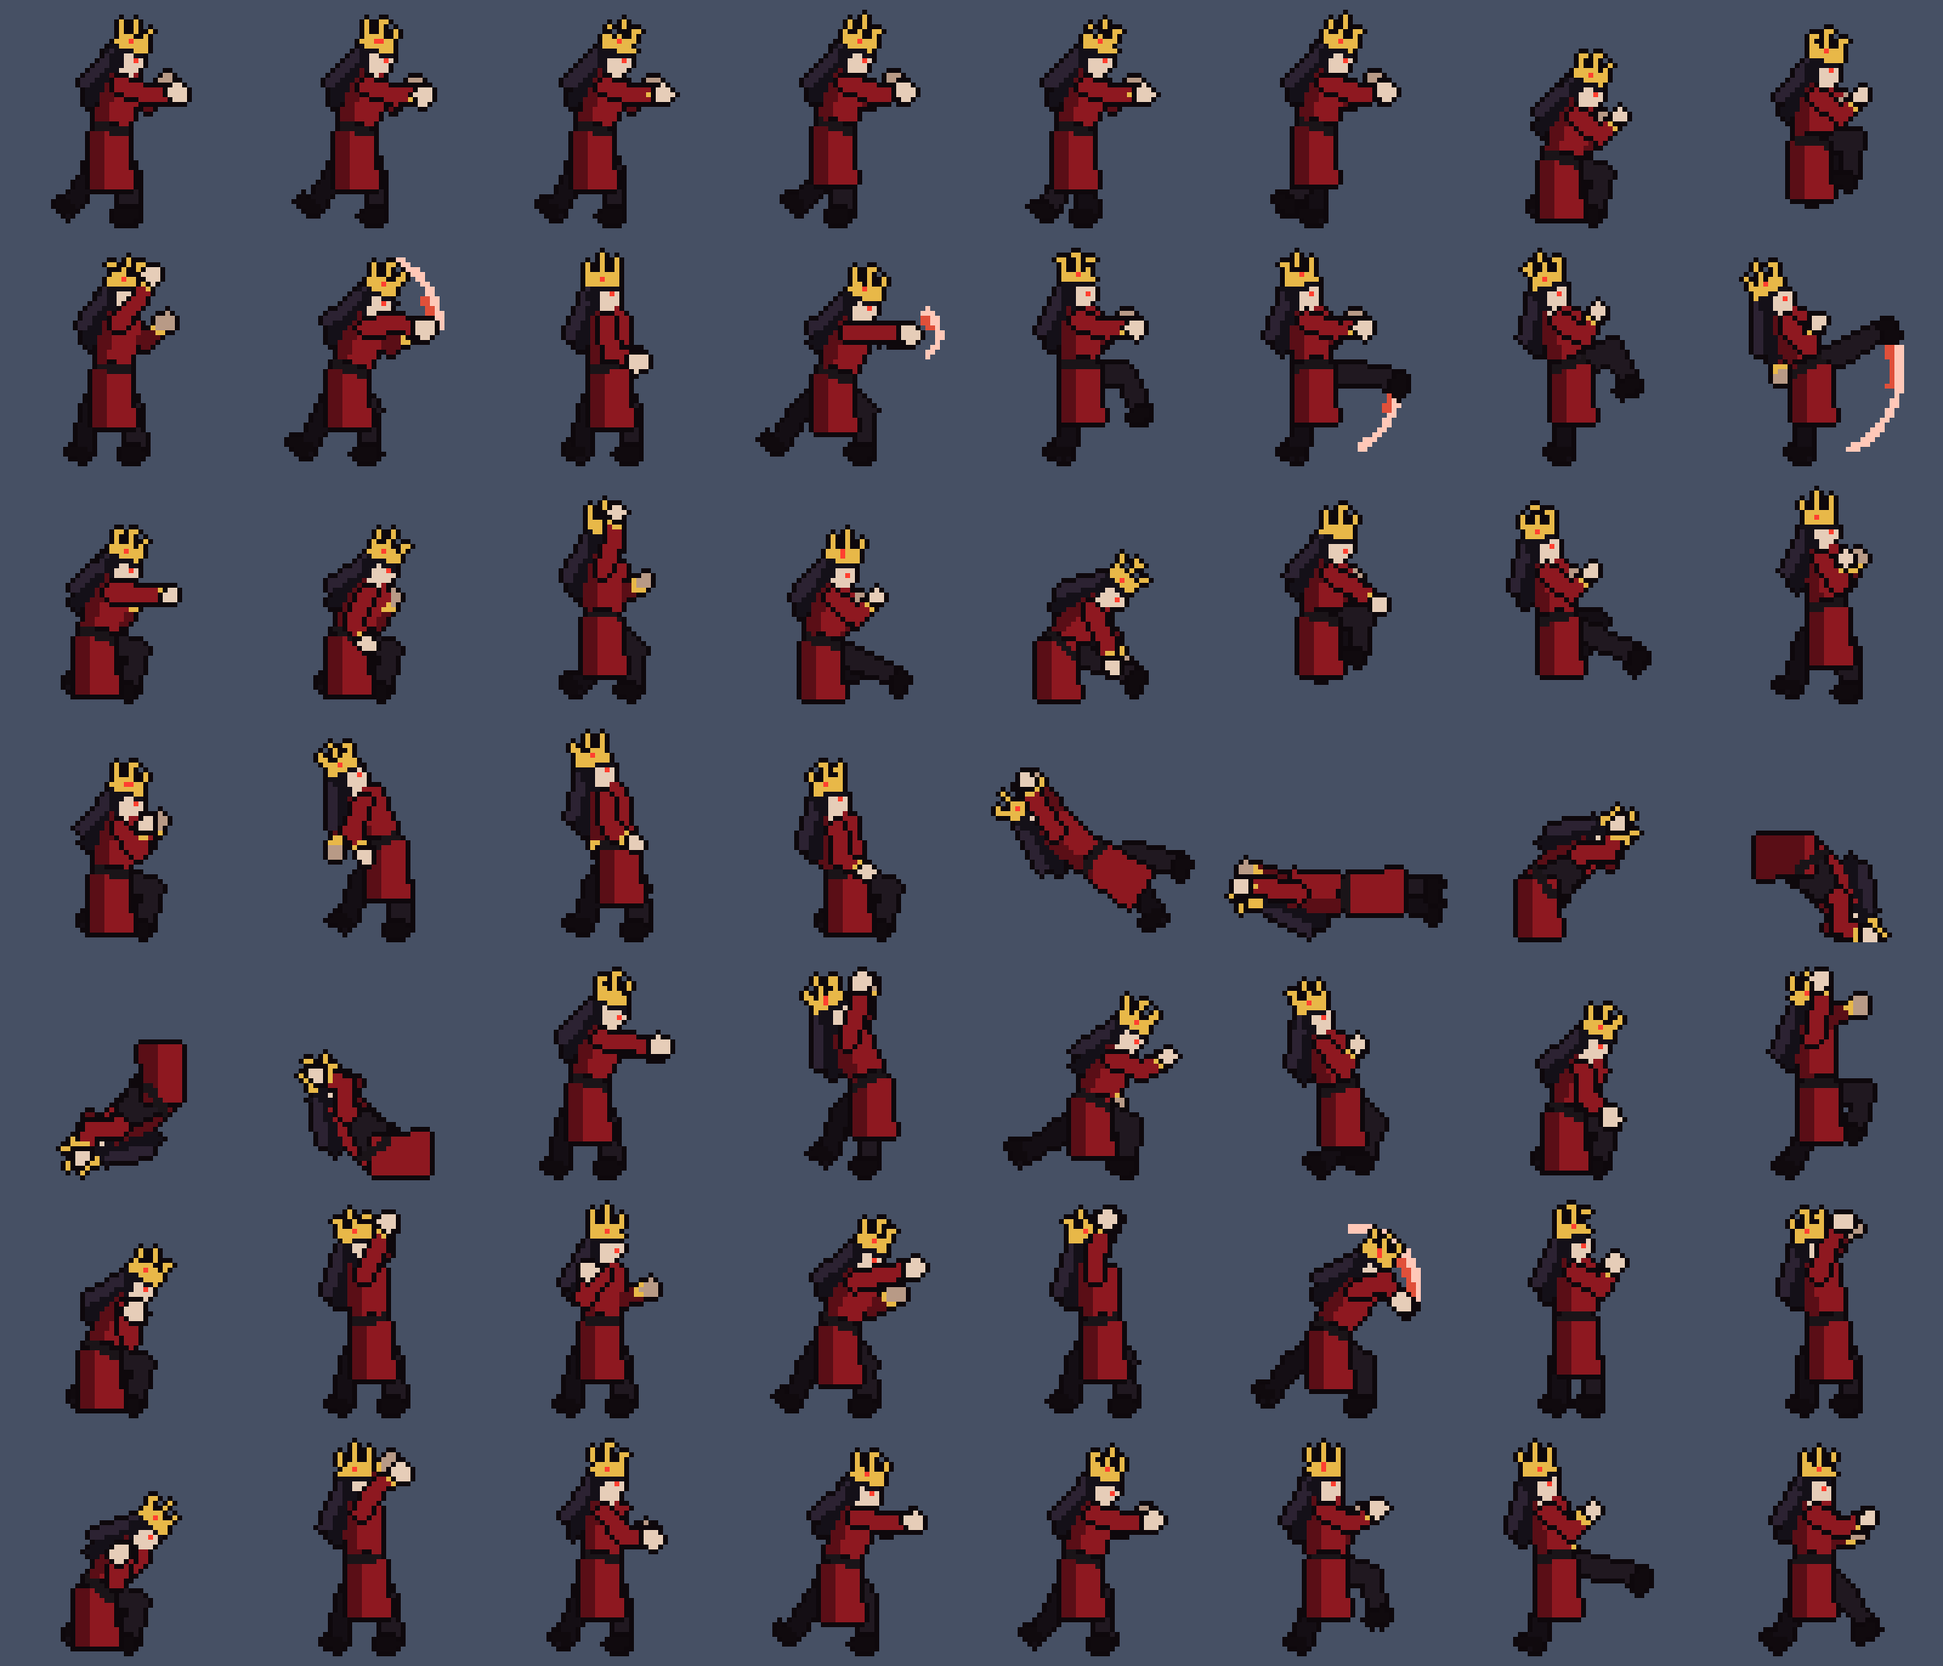
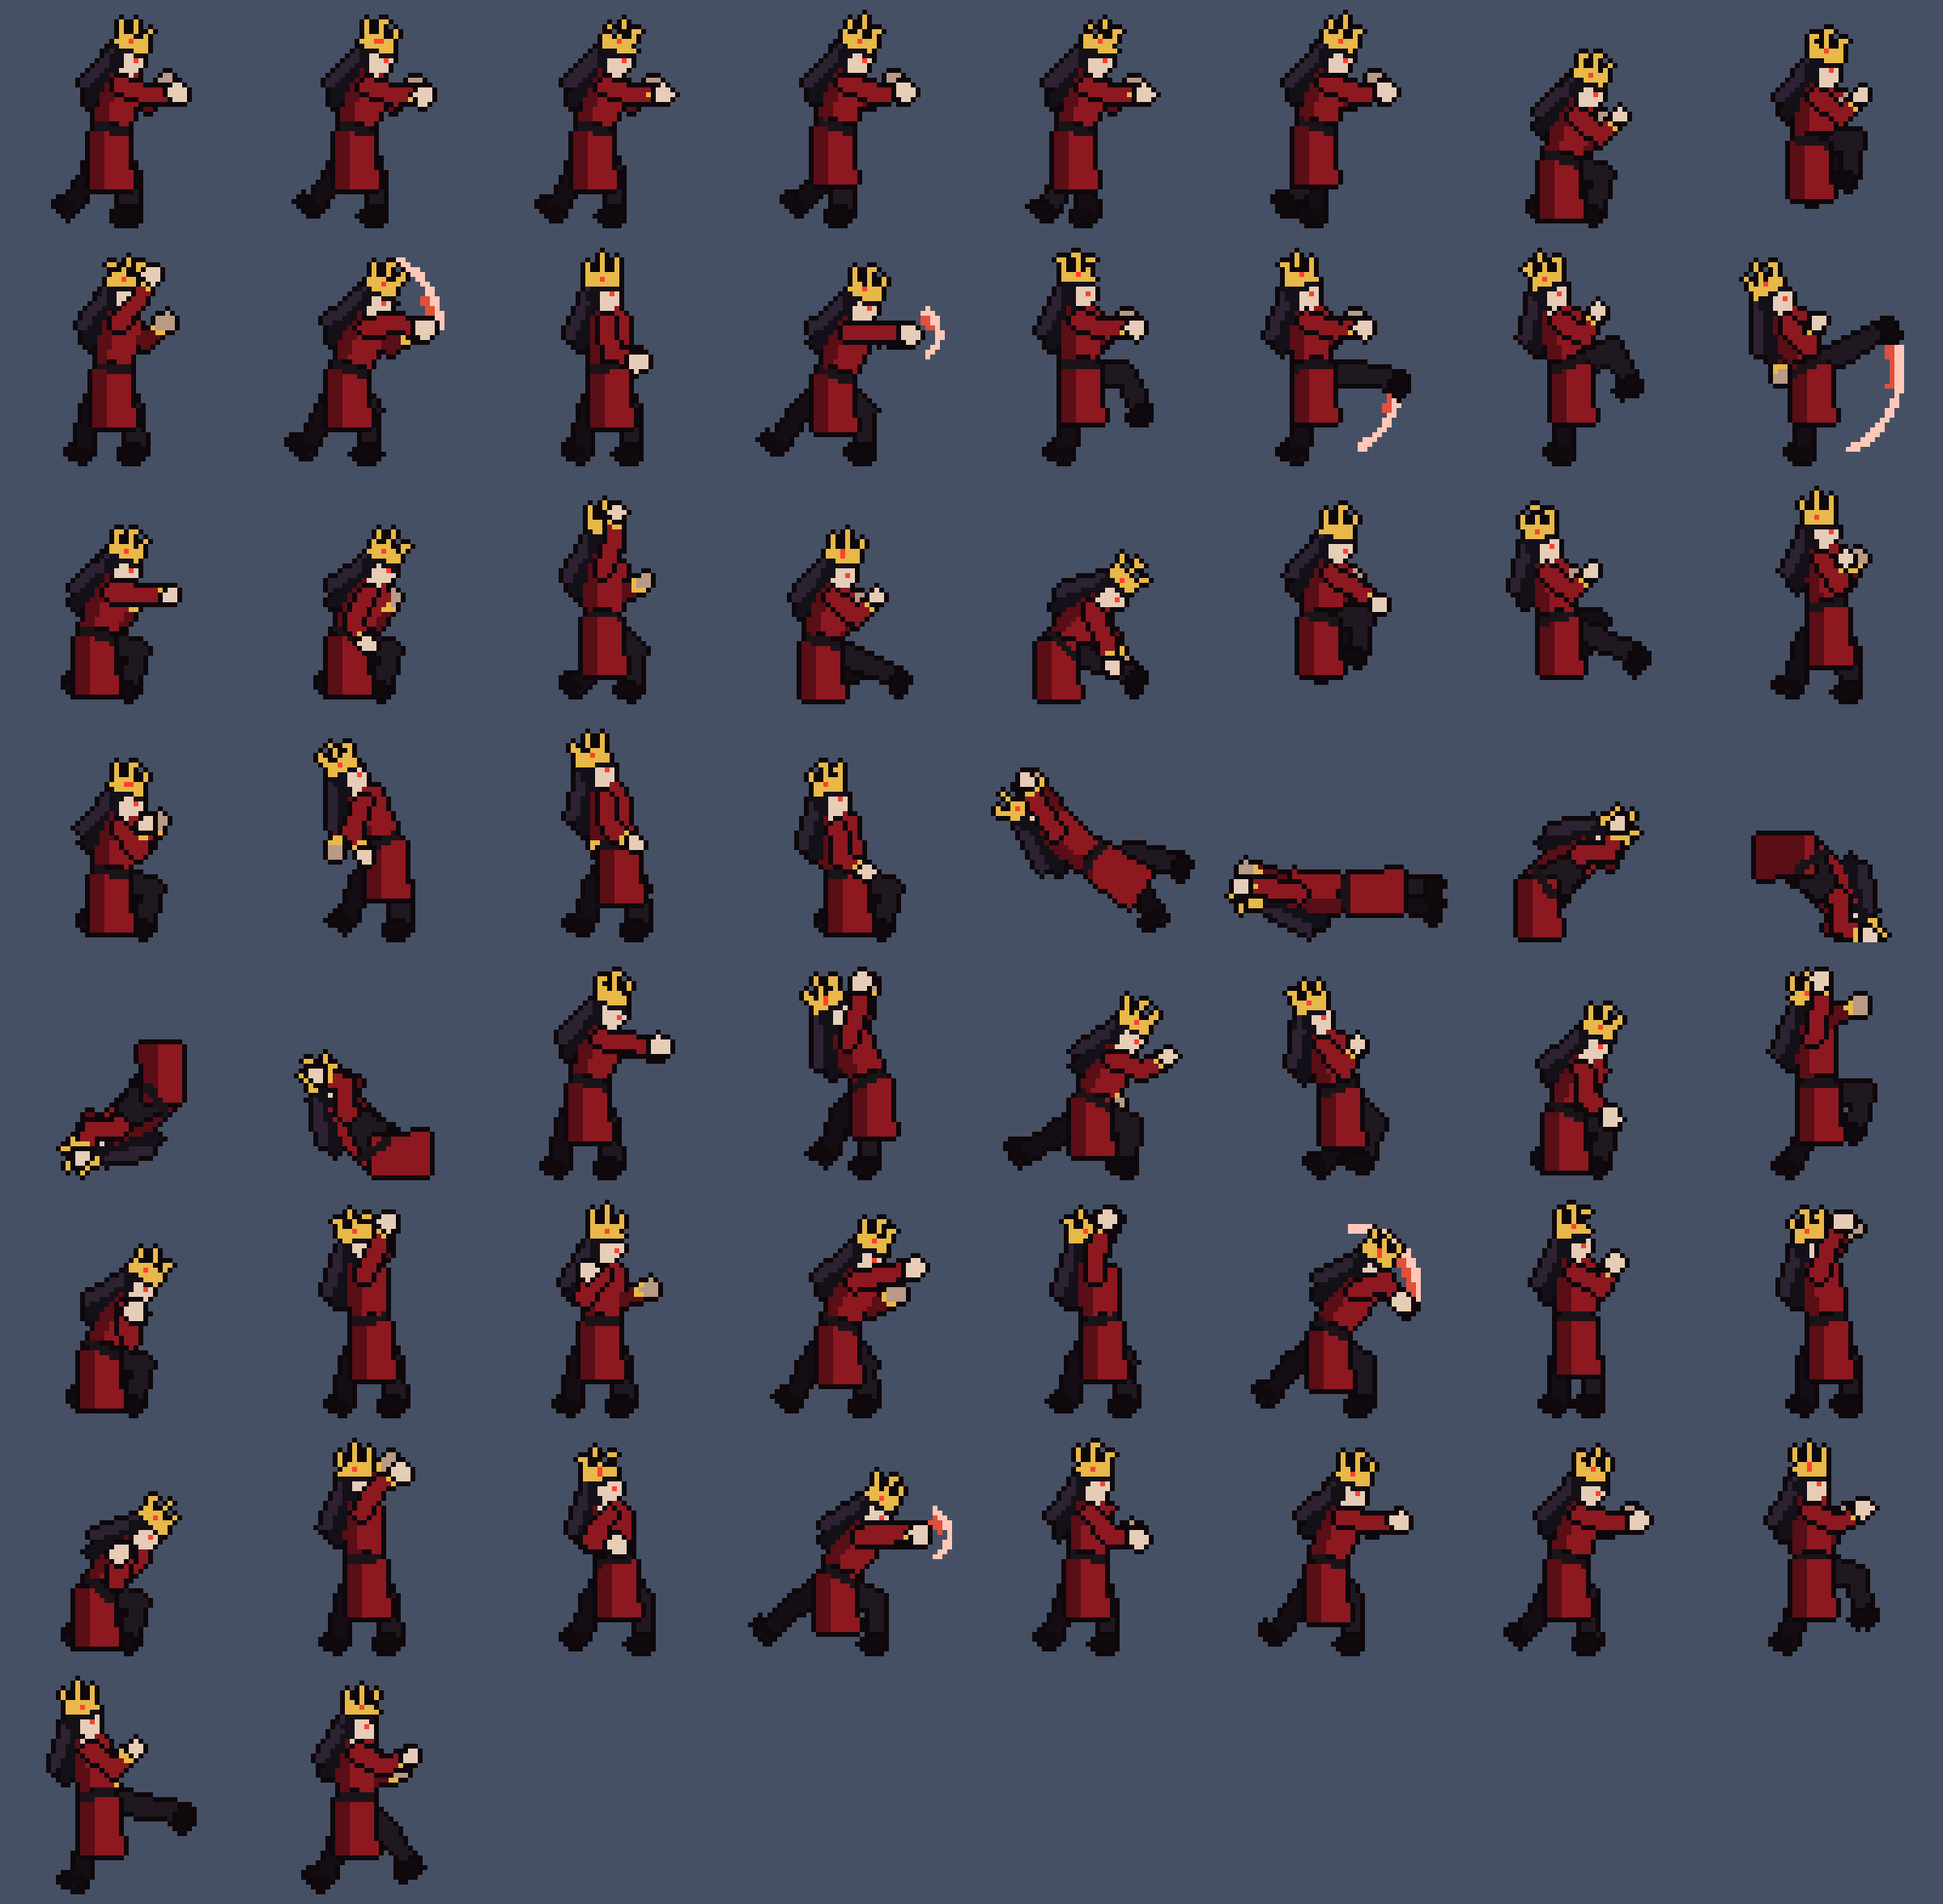
Cheonma: own close-range kit instead of a stronger Heukrim
- sp1 demon palm (26P): lunging double palm, 100 damage, new palm_0/1 poses
- sp2 heupseong daebeop (624P): command grab that steals up to 400
  naegong and heals half its damage
- super Cheonma Gunrim (2626P): 4-hit demon burst 22 px in front
  (fire pillar engine, p1 = offset in front, crimson / violet)
- Cheonma simgong: below 30% health, +15% damage and a red outline
- no projectile or teleport any more (those stay Heukrim's); CPU plays
  him as rushdown; select-screen RNG 4 -> 2
- harness scenario specials_cheonma

Claude-Session: https://claude.ai/code/session_019D5KftdDEDaYgXZVtoNLE8

diff --git a/tools/gen_sprites.py b/tools/gen_sprites.py
@@ -651,8 +651,8 @@ MOVE_ANIMS = {
         ("sp2_pre", 2, ["rush_0", "rush_2"]),
     ],
     "cheonma": [
-        ("sp1_pre", 2, ["sp_a", "sp_0"]),
-        ("sp2_pre", 2, ["rush_0", "rush_2"]),
+        ("sp1_pre", 2, ["palm_0"]),
+        ("super_pre", 2, ["sp_a", "sp_a", "palm_0"]),
     ],
     "hongryeon": [
         ("hp_pre", 2, ["hp_0", "hp_a"]),
@@ -1083,6 +1083,9 @@ CHEONMA_OVERRIDES.update({
     "hp_1": P(lean=20, lf=(42, 0), lb=(-42, -36), af=(90, 88), ab=(86, 85), open_hand=True, trail=("palm", 6)),
     "intro": P(lean=-2, lf=(16, 2), lb=(-16, -4), af=(60, 150), ab=(60, 150), open_hand=True),     # arms folded
     "win": P(lean=-12, lf=(22, 2), lb=(-22, -6), af=(160, 150), ab=(150, 140), open_hand=True),   # arms raised, laughing
+    # demon palm (sp1): both palms drawn back low, then a lunging double palm
+    "palm_0": P(lean=-10, lf=(30, 5), lb=(-30, -20), af=(-35, 80), ab=(-45, 90), open_hand=True),
+    "palm_1": P(lean=30, lf=(58, 5), lb=(-55, -45), af=(92, 90), ab=(86, 92), open_hand=True, trail=("palm", 6)),
 })
 
 SCALE_KEYS = ("thigh", "shin", "torso", "upper", "fore", "head_r", "w_thigh", "w_shin", "w_upper",

diff --git a/README.md b/README.md
@@ -48,7 +48,8 @@ Windows 엑셀과 Mac 엑셀(Microsoft 365 / 2019 이후) 모두에서 돌아갑
 - 아케이드를 한 번 깨면 **천마를 고를 수 있게 됩니다** (선택 화면 7번째 칸). 기록은 `data/save.txt`에 저장됩니다. 플레이어용 천마는 체력 1000이고, 천마로 아케이드를 하면 마지막 상대는 분신 천마(보스)입니다.
 - 선택 화면 8번째 칸 **?** 는 랜덤입니다.
 - 지면 CONTINUE? 화면이 뜹니다. 9초 안에 A를 누르면 같은 상대와 다시 싸우고, S를 누르거나 시간이 지나면 게임 오버입니다.
-- 천마는 체력 1400에 흑림 계열 기술을 더 강하게 씁니다(마공탄, 순간이동, 궁극기 천마무황).
+- 보스 천마는 체력 1400입니다. 장풍 없이 다가와서 마공장, 흡성대법, 천마군림으로 압박합니다.
+- 천마심공: 천마는 체력이 30% 이하가 되면 붉은 기운이 돌며 공격력이 15% 올라갑니다.
 
 ### 선택 화면 능력치
 - POW 한 방, SPD 이동 속도, RNG 사거리(장풍 포함), HP 체력, TEC 기술(공격이 빨리 나가고 빨리 회복하는지, 맞는 판정이 작은지, 돌진·승룡·순간이동 같은 기술).
@@ -113,7 +114,7 @@ P는 A 또는 S, K는 Z 또는 X입니다. →는 상대가 있는 쪽입니다.
 | 설화 | 발차기 | ↓↙←K 연환비각 (3연타 돌진) | →↓↘K 선풍각 (공중제비 대공) | ↓→↓→K 낙화유수 (연속 차기) |
 | 흑림 | 견제 | ↓↘→P 흑사침 (독침) | ↓↙←K 귀영보 (등 뒤로 순간이동) | ↓→↓→P 천마강림 (순간이동 장법) |
 | 홍련 | 부채 | ↓↘→P 부채 던지기 (돌아오는 부채) | →↓↘K 연화선 (회전 차기) | ↓→↓→P 홍련업화 (상대 발밑 불기둥) |
-| 천마 | 아케이드 보스 | ↓↘→P 마공탄 | ↓↙←K 순간이동 | ↓→↓→P 천마무황 |
+| 천마 | 근거리 압박 (아케이드를 깨면 열림) | ↓↘→P 마공장 (돌진 장법) | →↓←P 흡성대법 (커맨드 잡기: 내공을 빼앗고 체력 회복) | ↓→↓→P 천마군림 (앞에 마기 폭발 4연타) |
 
 - 내공(초록 바): 필살기 1·2를 쓰면 줄고 시간이 지나면 다시 찹니다. 모자라면 커맨드를 넣어도 일반 공격이 나가고 바가 빨갛게 깜빡입니다.
 - 궁극기 게이지(파란 바): 때리거나 맞으면 찹니다.
@@ -168,7 +169,8 @@ Pick SINGLE PLAYER or MULTIPLAYER on the title screen. In menus, ↑↓ moves, A
 - Clearing arcade once **unlocks Cheonma** (7th slot on the select screen), saved in `data/save.txt`. Playable Cheonma has 1000 HP; as Cheonma, the last fight is a shadow Cheonma boss.
 - The 8th slot **?** picks a random fighter.
 - Lose and you get CONTINUE?. Press A within 9 seconds to retry the same fight; press S or let it run out and it's game over.
-- Cheonma has 1400 HP and a stronger version of Heukrim's moves (demon orb, teleport, super Cheonma Muhwang).
+- Boss Cheonma has 1400 HP. No projectile: he closes in with the demon palm, the draining grab and Cheonma Gunrim.
+- Cheonma simgong: below 30% health Cheonma glows red and deals 15% more damage.
 
 ### Select screen stats
 - POW damage, SPD movement, RNG reach (projectiles count), HP health, TEC technique (fast startup and recovery, small hurtbox, rush / uppercut / teleport moves).
@@ -233,7 +235,7 @@ P is A or S, K is Z or X. → means toward the opponent.
 | Seolhwa | Kicker | ↓↙←K Yeonhwan Bigak (3-hit rush) | →↓↘K Seonpunggak (flip kick) | ↓→↓→K Nakhwa Yusu (kick barrage) |
 | Heukrim | Zoner | ↓↘→P Heuksachim (poison needles) | ↓↙←K Gwiyeongbo (teleport behind) | ↓→↓→P Cheonma Gangrim (teleport palm) |
 | Hongryeon | Fans | ↓↘→P Fan throw (comes back) | →↓↘K Yeonhwaseon (spinning kick) | ↓→↓→P Hongryeon Eophwa (fire pillar under the opponent) |
-| Cheonma | Arcade boss | ↓↘→P Demon orb | ↓↙←K Teleport | ↓→↓→P Cheonma Muhwang |
+| Cheonma | Close-range pressure (unlocked by clearing arcade) | ↓↘→P Demon palm (lunging palm) | →↓←P Heupseong daebeop (command grab: steals naegong, heals) | ↓→↓→P Cheonma Gunrim (4-hit demon burst in front) |
 
 - Inner energy (green bar): specials 1 and 2 use it and it refills over time. Without enough of it you get a normal attack instead, and the bar flashes red.
 - Super gauge (blue bar): fills when you hit or get hit.
